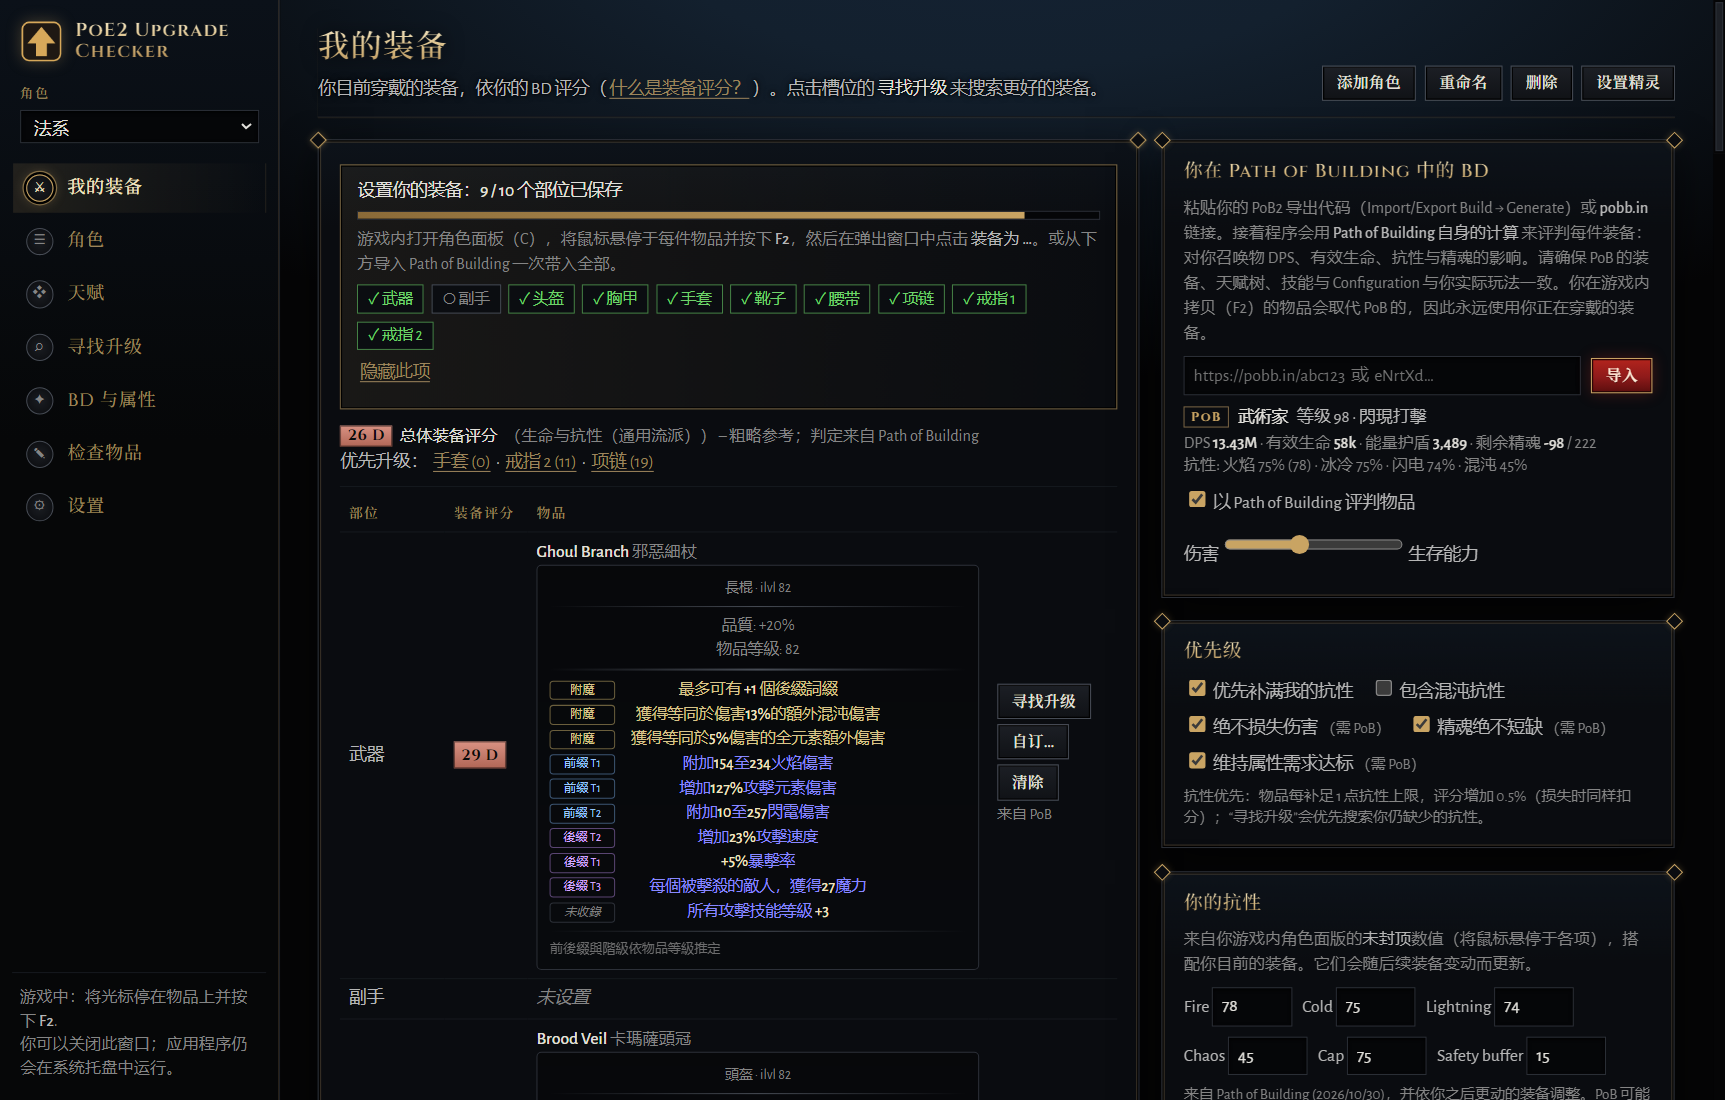
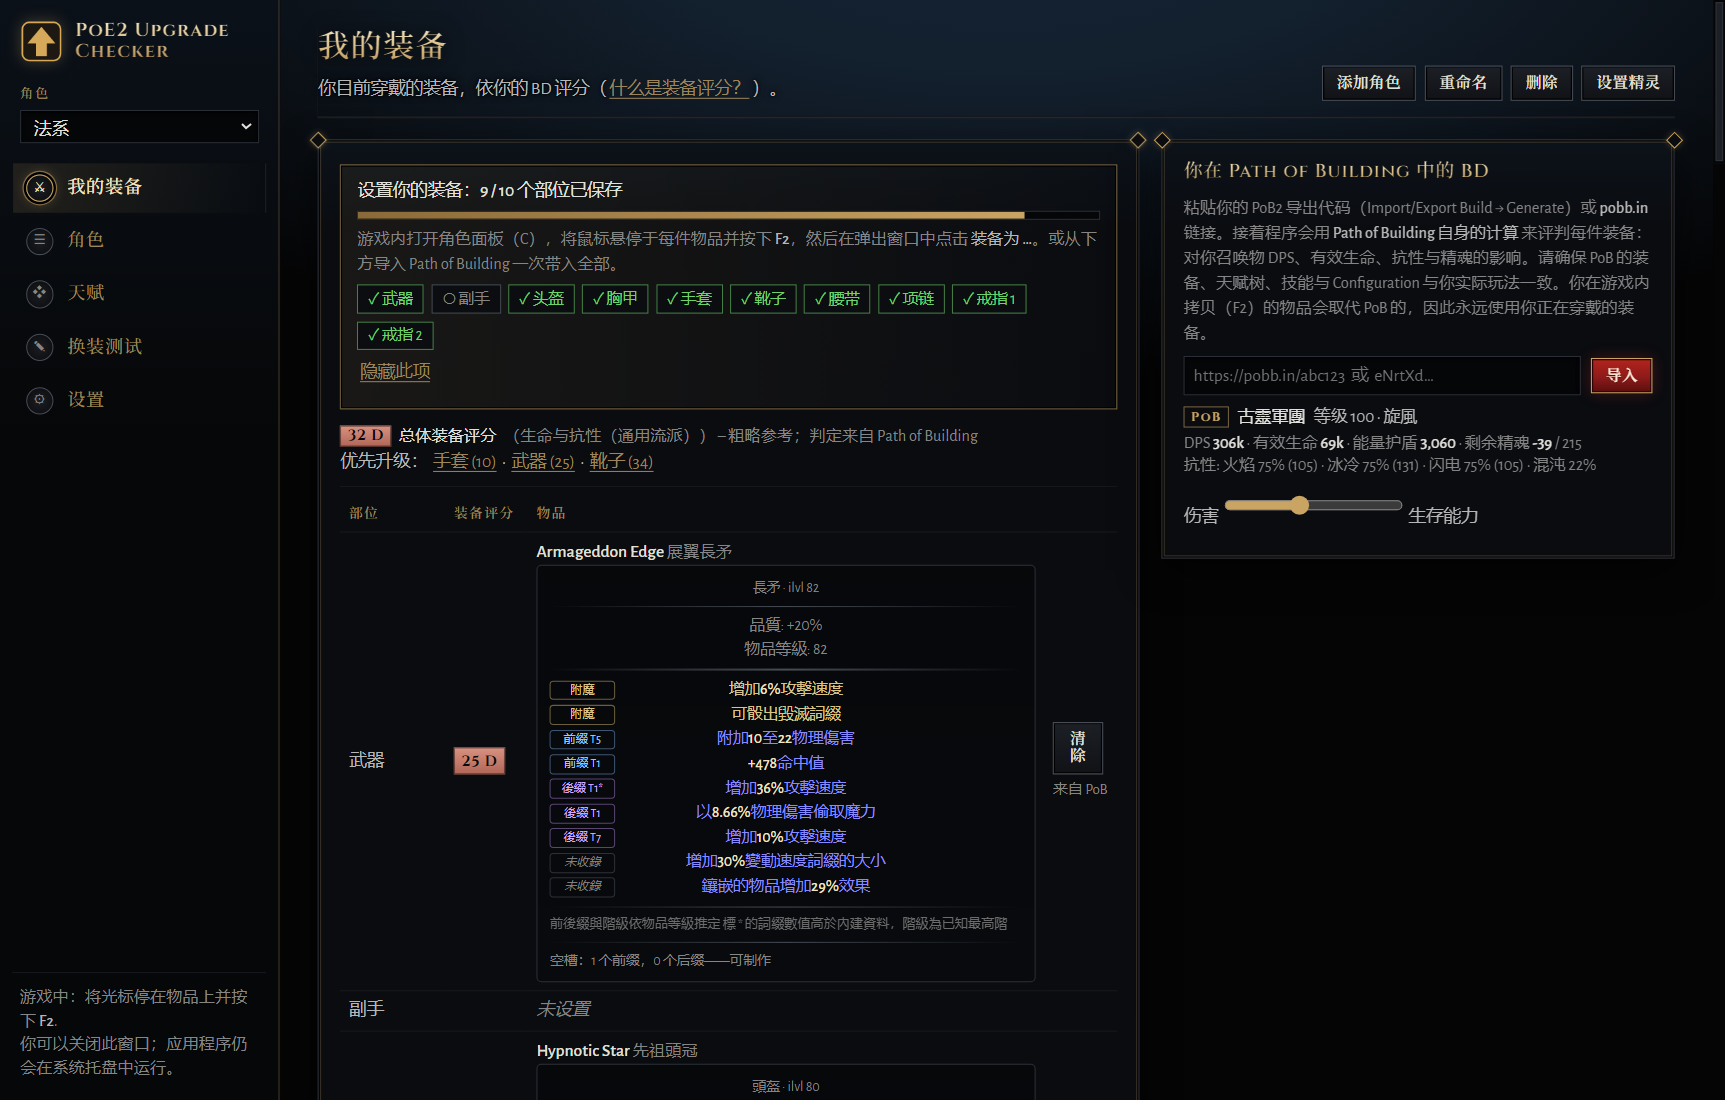
Simplify UI: drop Find upgrades / Build & stats; rename Check an item to gear-swap test
- Remove the 'Find upgrades' and 'Build & stats' pages from the nav (their sections
  stay in the DOM but are unreachable; nav references are null-guarded so the page
  never crashes). showTab() never reveals a page whose nav button is gone.
- My gear: drop the per-slot Find upgrades / Custom buttons, and hide the Priorities
  card, the Your resistances card and the 'Judge items with Path of Building' toggle.
  PoB is now always on (re-enabled on load if a profile had it off).
- 'Check an item' -> '换装测试': paste item text, it detects the slot and compares with
  the item you wear, showing every stat up/down; an extra '替换这件装备' button actually
  writes it into that slot, and only when clicked (compare-only otherwise). Trade
  buttons are stripped from the swap-test result.
- README: add the gear-swap test, drop the removed trade-search / build-editor bits,
  refresh the My gear screenshot.

diff --git a/src/ui/settings.js b/src/ui/settings.js
@@ -22,6 +22,8 @@ document.querySelectorAll('.tabs button').forEach((b) => b.addEventListener('cli
 let accountAt = 0; // when the sign-in status was last checked
 async function load() {
   state = await window.api.getState();
+  // PoB is always on now (its toggle was removed); turn it back on if a profile had it off
+  if (state.settings.usePob === false && !window.__pobForcedOn) { window.__pobForcedOn = true; window.api.pobEnable(true); }
   renderSlots();
   renderWeights();
   $('#weightsJson').value = JSON.stringify(state.weights, null, 2);
@@ -115,9 +117,7 @@ function renderSlots() {
     return `<tr class="slotrow"><td>${esc(t(s))}</td><td>${gcell}</td>
       <td>${it ? `<b>${esc(gn(it.name))}</b> <span class="dim">${esc(it.baseType !== it.name ? gn(it.baseType) : '')}</span><div class="dim">${itemModsOrText(it)}</div>`
         : t('<span class="empty">not set</span>')}</td>
-      <td class="nowrap">${it ? `<button data-quick="${esc(s)}">${t('Find upgrades')}</button>
-        <button data-custom="${esc(s)}">${t('Custom…')}</button>
-        <button data-clear="${esc(s)}">${t('Clear')}</button>` : ''}${it && it.fromPob ? `<div class="dim small">${t('from PoB')}</div>` : ''}</td></tr>`;
+      <td class="nowrap">${it ? `<button data-clear="${esc(s)}">${t('Clear')}</button>` : ''}${it && it.fromPob ? `<div class="dim small">${t('from PoB')}</div>` : ''}</td></tr>`;
   };
   $('#slots').innerHTML = `<tr><th>${t('Slot')}</th><th>${t('Gear score')}</th><th>${t('Item')}</th><th></th></tr>` + main.map(row).join('')
     + `<tr><td colspan="4"><button class="link" id="extraToggle">${extraOpen ? '▾' : '▸'} ${t('Weapon swap, flasks, charms & jewels ({0} saved)', showExtras.length)}</button></td></tr>`
@@ -151,6 +151,8 @@ const toTarget = (v) => (v && v.startsWith('item:') ? { itemId: v.slice(5) } : v
 const fromTarget = (t) => (t && typeof t === 'object' && t.itemId ? 'item:' + t.itemId : t);
 
 function showTab(name) {
+  // a page whose nav button was removed (Find upgrades / Build & stats) must never be revealed
+  if (!document.querySelector('.tabs button[data-tab="' + name + '"]')) return;
   // switch tabs without firing the tab button's click handler
   document.querySelectorAll('.tabs button').forEach((x) => x.classList.toggle('active', x.dataset.tab === name));
   document.querySelectorAll('.tab').forEach((t) => t.classList.toggle('active', t.id === 'tab-' + name));
@@ -302,7 +304,7 @@ $('#findSimilar').addEventListener('click', () => runFind(() => window.api.quick
 $('#findQuick').addEventListener('click', () => runFind(() => window.api.quickFind(toTarget($('#findSlot').value), 'weights', searchExtra())));
 $('#findStatus').addEventListener('change', () => window.api.setSetting('status', $('#findStatus').value));
 $('#findLeague').addEventListener('change', () => window.api.setSetting('league', $('#findLeague').value));
-document.querySelector('.tabs button[data-tab="find"]').addEventListener('click', () => openFind(null));
+const findNav = document.querySelector('.tabs button[data-tab="find"]'); if (findNav) findNav.addEventListener('click', () => openFind(null));
 window.api.onFindUpgrade((target) => { load().then(() => openFind(target)); });
 
 // A new item was copied: keep the Find tab in step with it.
@@ -362,6 +364,32 @@ $('#testBtn').addEventListener('click', async () => {
   if (state && state.pobOn) $('#testResult').innerHTML = '<div class="card"><div class="note"><span class="spinner"></span> ' + t('Checking with Path of Building…') + '</div></div>';
   const r = await window.api.evaluateText(text);
   window.renderComparison($('#testResult'), r, { itemText: text, onChange: () => { load(); $('#testBtn').click(); } });
+  // 交易相关按钮已随「寻找升级」页移除：从换装测试结果里去掉这些死按钮
+  const out = $('#testResult');
+  if (out) {
+    out.querySelectorAll('.main-actions').forEach((e) => e.remove());
+    out.querySelectorAll('#likeFind2, #sameFind, #weightFind, #craftFind, #customFind').forEach((e) => e.remove());
+  }
+  // 换装测试：只做对比；点「替换这件装备」才把文本写入对应槽位，不点就不改已存装备
+  if (r && r.ok && r.targetSlot && !r.isEquipped && text.trim()) {
+    const bar = document.createElement('div');
+    bar.className = 'row';
+    const btn = document.createElement('button');
+    btn.className = 'primary';
+    btn.textContent = '替换这件装备';
+    const msg = document.createElement('span');
+    msg.className = 'note';
+    bar.appendChild(btn); bar.appendChild(msg);
+    $('#testResult').appendChild(bar);
+    btn.addEventListener('click', async () => {
+      btn.disabled = true;
+      try {
+        const ok = await window.api.equip(r.targetSlot, text);
+        if (ok) { msg.textContent = '已替换到「' + (r.targetSlot || '') + '」部位。'; await load(); $('#testBtn').click(); }
+        else msg.textContent = '替换失败：无法识别该物品或部位。';
+      } finally { btn.disabled = false; }
+    });
+  }
 });
 
 $('#autoHide').addEventListener('change', () => window.api.setSetting('autoHideSeconds', Math.max(2, Number($('#autoHide').value) || 12)));
@@ -481,7 +509,7 @@ $('#autoRate').addEventListener('change', async () => {
   showRate(false);
 });
 $('#rateRefresh').addEventListener('click', () => showRate(true));
-document.querySelector('.tabs button[data-tab="find"]').addEventListener('click', () => showRate(false));
+const findNavRate = document.querySelector('.tabs button[data-tab="find"]'); if (findNavRate) findNavRate.addEventListener('click', () => showRate(false));
 window.api.onFindUpgrade(() => showRate(false));
 
 // ---------- ignored stats ----------
@@ -1008,7 +1036,7 @@ renderUpdate();
 // ---------- gear score explanation ----------
 $('#gsExplain').innerHTML = window.gearExplainHtml({ where: t('gear score editor on this page') });
 window.showGearHelp = () => {
-  document.querySelector('.tabs button[data-tab="build"]').click();
+  const buildNav = document.querySelector('.tabs button[data-tab="build"]'); if (buildNav) buildNav.click();
   setTimeout(() => $('#gsExplainCard').scrollIntoView({ behavior: 'smooth', block: 'start' }), 120);
 };
 document.querySelectorAll('.page-head .gs-help').forEach((b) => b.addEventListener('click', () => window.showGearHelp()));

diff --git a/src/ui/settings.html b/src/ui/settings.html
@@ -16,9 +16,7 @@
       <button data-tab="gear" class="active" data-i18n-html="<i>⚔</i>My gear"><i>⚔</i>My gear</button>
       <button data-tab="char" data-i18n-html="<i>☰</i>Character"><i>☰</i>Character</button>
       <button data-tab="passives" data-i18n-html="<i>❖</i>Passives"><i>❖</i>Passives</button>
-      <button data-tab="find" data-i18n-html="<i>⌕</i>Find upgrades"><i>⌕</i>Find upgrades</button>
-      <button data-tab="build" data-i18n-html="<i>✦</i>Build &amp; stats"><i>✦</i>Build &amp; stats</button>
-      <button data-tab="test" data-i18n-html="<i>✎</i>Check an item"><i>✎</i>Check an item</button>
+      <button data-tab="test" data-i18n-html="<i>✎</i>换装测试"><i>✎</i>换装测试</button>
       <button data-tab="options" data-i18n-html="<i>⚙</i>Settings"><i>⚙</i>Settings</button>
     </nav>
     <div class="side-foot" id="hotkeyLine" data-i18n-html="Hover an item in game and press <b>F2</b>.">Hover an item in game and press <b>F2</b>.</div>
@@ -28,7 +26,7 @@
     <div class="res-loss-banner hidden" id="loadError" role="alert"></div>
     <section class="tab active" id="tab-gear">
       <header class="page-head">
-        <div><h2 data-i18n="My gear">My gear</h2><div class="sub" data-i18n-html="What you're wearing, scored for your build (<button class=&quot;link gs-help&quot;>what's the gear score?</button>). Click a slot's <b>Find upgrades</b> to search for something better.">What you're wearing, scored for your build (<button class="link gs-help">what's the gear score?</button>). Click a slot's <b>Find upgrades</b> to search for something better.</div></div>
+        <div><h2 data-i18n="My gear">My gear</h2><div class="sub">你目前穿戴的装备，依你的 BD 评分（<button class="link gs-help">什么是装备评分？</button>）。</div></div>
         <div class="page-actions">
           <button id="profileNew" data-i18n="New character">New character</button>
           <button id="profileRename" data-i18n="Rename">Rename</button>
@@ -55,11 +53,11 @@
           <div class="note" id="pobMsg"></div>
           <div id="pobStatus" class="pob-status"></div>
           <div class="row" id="pobControls">
-            <label><input type="checkbox" id="pobUse"> <span data-i18n="Judge items with Path of Building">Judge items with Path of Building</span></label>
+            <label class="hidden"><input type="checkbox" id="pobUse"> <span data-i18n="Judge items with Path of Building">Judge items with Path of Building</span></label>
             <label data-i18n-html="Damage <input type=&quot;range&quot; id=&quot;pobBalance&quot; min=&quot;0&quot; max=&quot;100&quot; step=&quot;10&quot;> Survivability">Damage <input type="range" id="pobBalance" min="0" max="100" step="10"> Survivability</label>
           </div>
           </div>
-          <div class="card-p">
+          <div class="card-p hidden">
             <h3 data-i18n="Priorities">Priorities</h3>
           <div class="row prio">
             <label data-i18n-html="<input type=&quot;checkbox&quot; id=&quot;prRes&quot;> Cap my resistances first" title="While a resistance is under the cap, items that fill it score much higher and Find upgrades looks for it first"><input type="checkbox" id="prRes"> Cap my resistances first</label>
@@ -70,7 +68,7 @@
           </div>
           <div class="dim small" id="prNote"></div>
           </div>
-          <div class="card-p">
+          <div class="card-p hidden">
             <h3 data-i18n="Your resistances">Your resistances</h3>
           <div class="help" data-i18n-html="The <b>uncapped</b> numbers from your in-game character sheet (hover each one), with the gear you wear now. They follow your gear changes from then on.">The <b>uncapped</b> numbers from your in-game character sheet (hover each one), with the gear you wear now. They follow your gear changes from then on.</div>
           <div class="row resrow">
@@ -258,12 +256,12 @@
 
     <section class="tab" id="tab-test">
       <header class="page-head">
-        <div><h2 data-i18n="Check an item">Check an item</h2><div class="sub" data-i18n="Paste item text (from the game, or someone's listing copied in game) to check it without the popup.">Paste item text (from the game, or someone's listing copied in game) to check it without the popup.</div></div>
+        <div><h2>换装测试</h2><div class="sub">粘贴装备文本（游戏内 Ctrl+C 复制，或从交易页复制），自动识别部位，与当前装备对比，查看各项属性的提升与下降；不会自动替换，需要时点「替换这件装备」。</div></div>
       </header>
       <div class="grid g-2 g-even">
         <div class="col"><div class="card-p">
           <textarea id="testText" rows="14" data-i18n-placeholder="Item Class: Helmets&#10;Rarity: Rare&#10;..." placeholder="Item Class: Helmets&#10;Rarity: Rare&#10;..."></textarea>
-          <div class="row"><button id="testBtn" class="primary" data-i18n="Check item">Check item</button></div>
+          <div class="row"><button id="testBtn" class="primary">开始测试</button></div>
         </div></div>
         <div class="col"><div id="testResult"></div></div>
       </div>

diff --git a/README.md b/README.md
@@ -35,11 +35,14 @@
 
 <p align="center"><img src="docs/character.png" alt="角色页：按 Path of Building 计算的角色面板，含技能与辅助" width="820"><br><br><img src="docs/passives.png" alt="天赋页：整棵 PoE2 天赋树，高亮已点路径；顶部标签可按类别高亮 / 聚焦" width="820"></p>
 
+### 4. 换装测试
+
+粘贴一段装备文本（游戏内 Ctrl+C 复制，或从交易页复制），自动识别它属于哪个部位，与当前装备逐项对比，显示各项属性的提升与下降（DPS、有效生命、能量护盾、抗性、精魂、生命、魔力等）。默认**只对比、不改动已存装备**；确实想换上时，点结果下方的「替换这件装备」才会写入对应槽位。
+
 ## 其他功能（简略）
 
-- **交易站找装**：按 PoB 权重生成搜索，逐条判定交易 listing 是否对你升级；价格用 poe.ninja 实时汇率换算（神聖 / 崇高）。
-- **装备评分**：无 PoB 时，按职业模板与自定义权重给出 0–100 的评分与 S/A/B/C/D 等级。
-- **公平与隐私**：不读取游戏内存、不注入；每次热键仅发送一次 Ctrl+C。配装、build 与登录 cookie 只存在于本机，仅与官方交易站、poe.ninja、GitHub（检查更新）通信。
+- **装备评分**：无 PoB 时按模板与权重给出 0–100 的评分与 S/A/B/C/D 等级；有 PoB 时一律以 PoB 的计算为准。
+- **公平与隐私**：不读取游戏内存、不注入；每次热键仅发送一次 Ctrl+C；配装、build 与登录 cookie 只存在于本机。
 - **设置**：热键、悬浮窗位置 / 字号 / 色盲配色、开机启动等。
 - **使用前置**：游戏内「选项 → 画面」需设为**窗口化全屏**，悬浮窗才能叠加在游戏之上。
 
